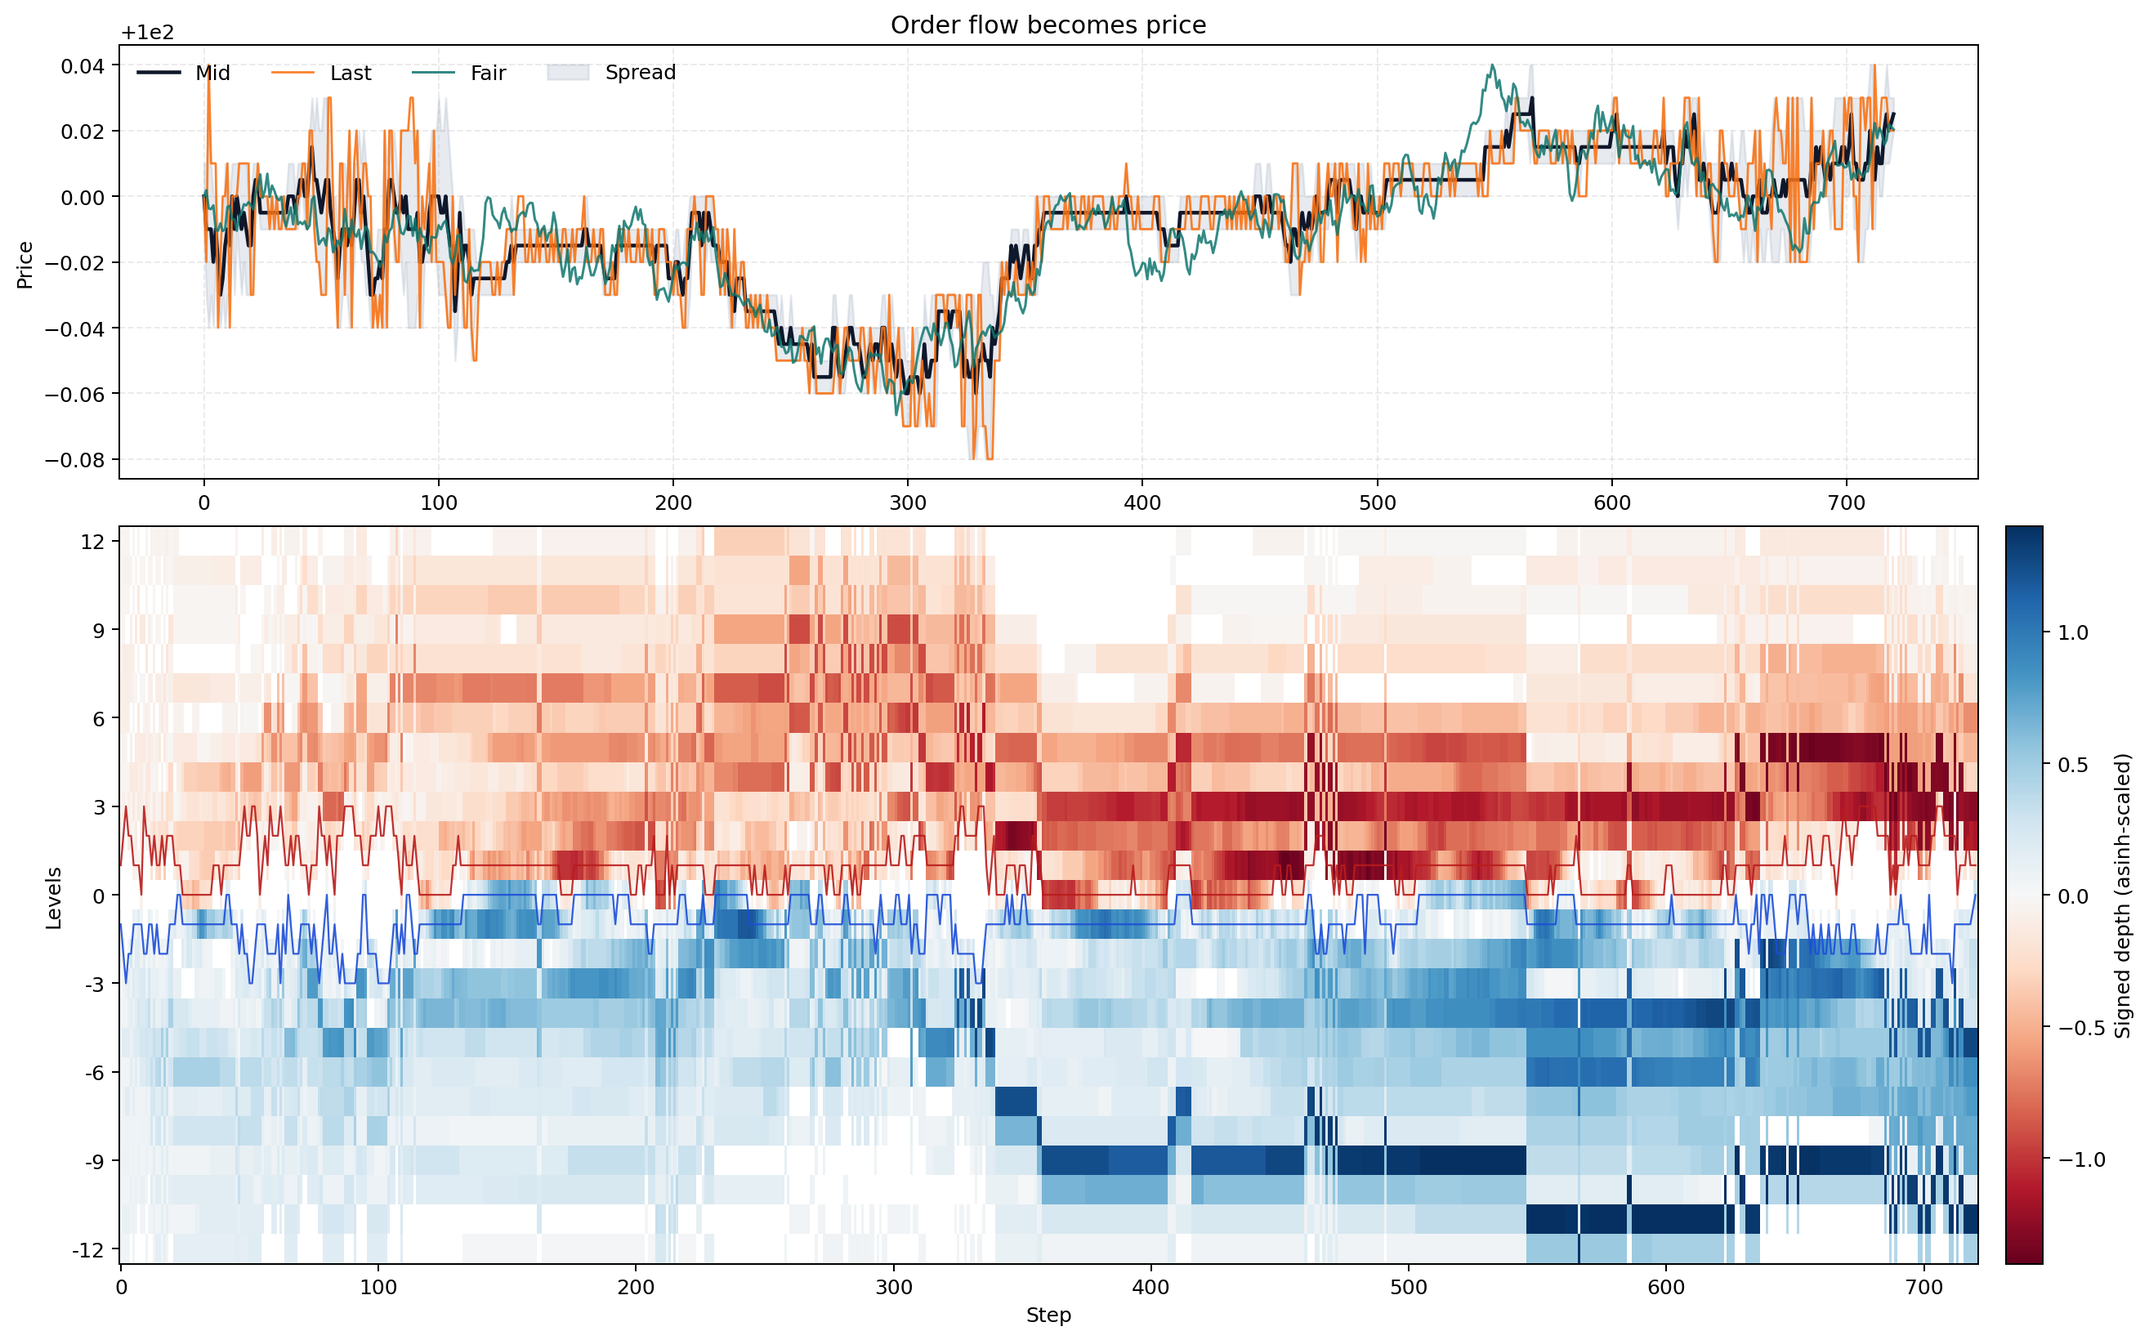
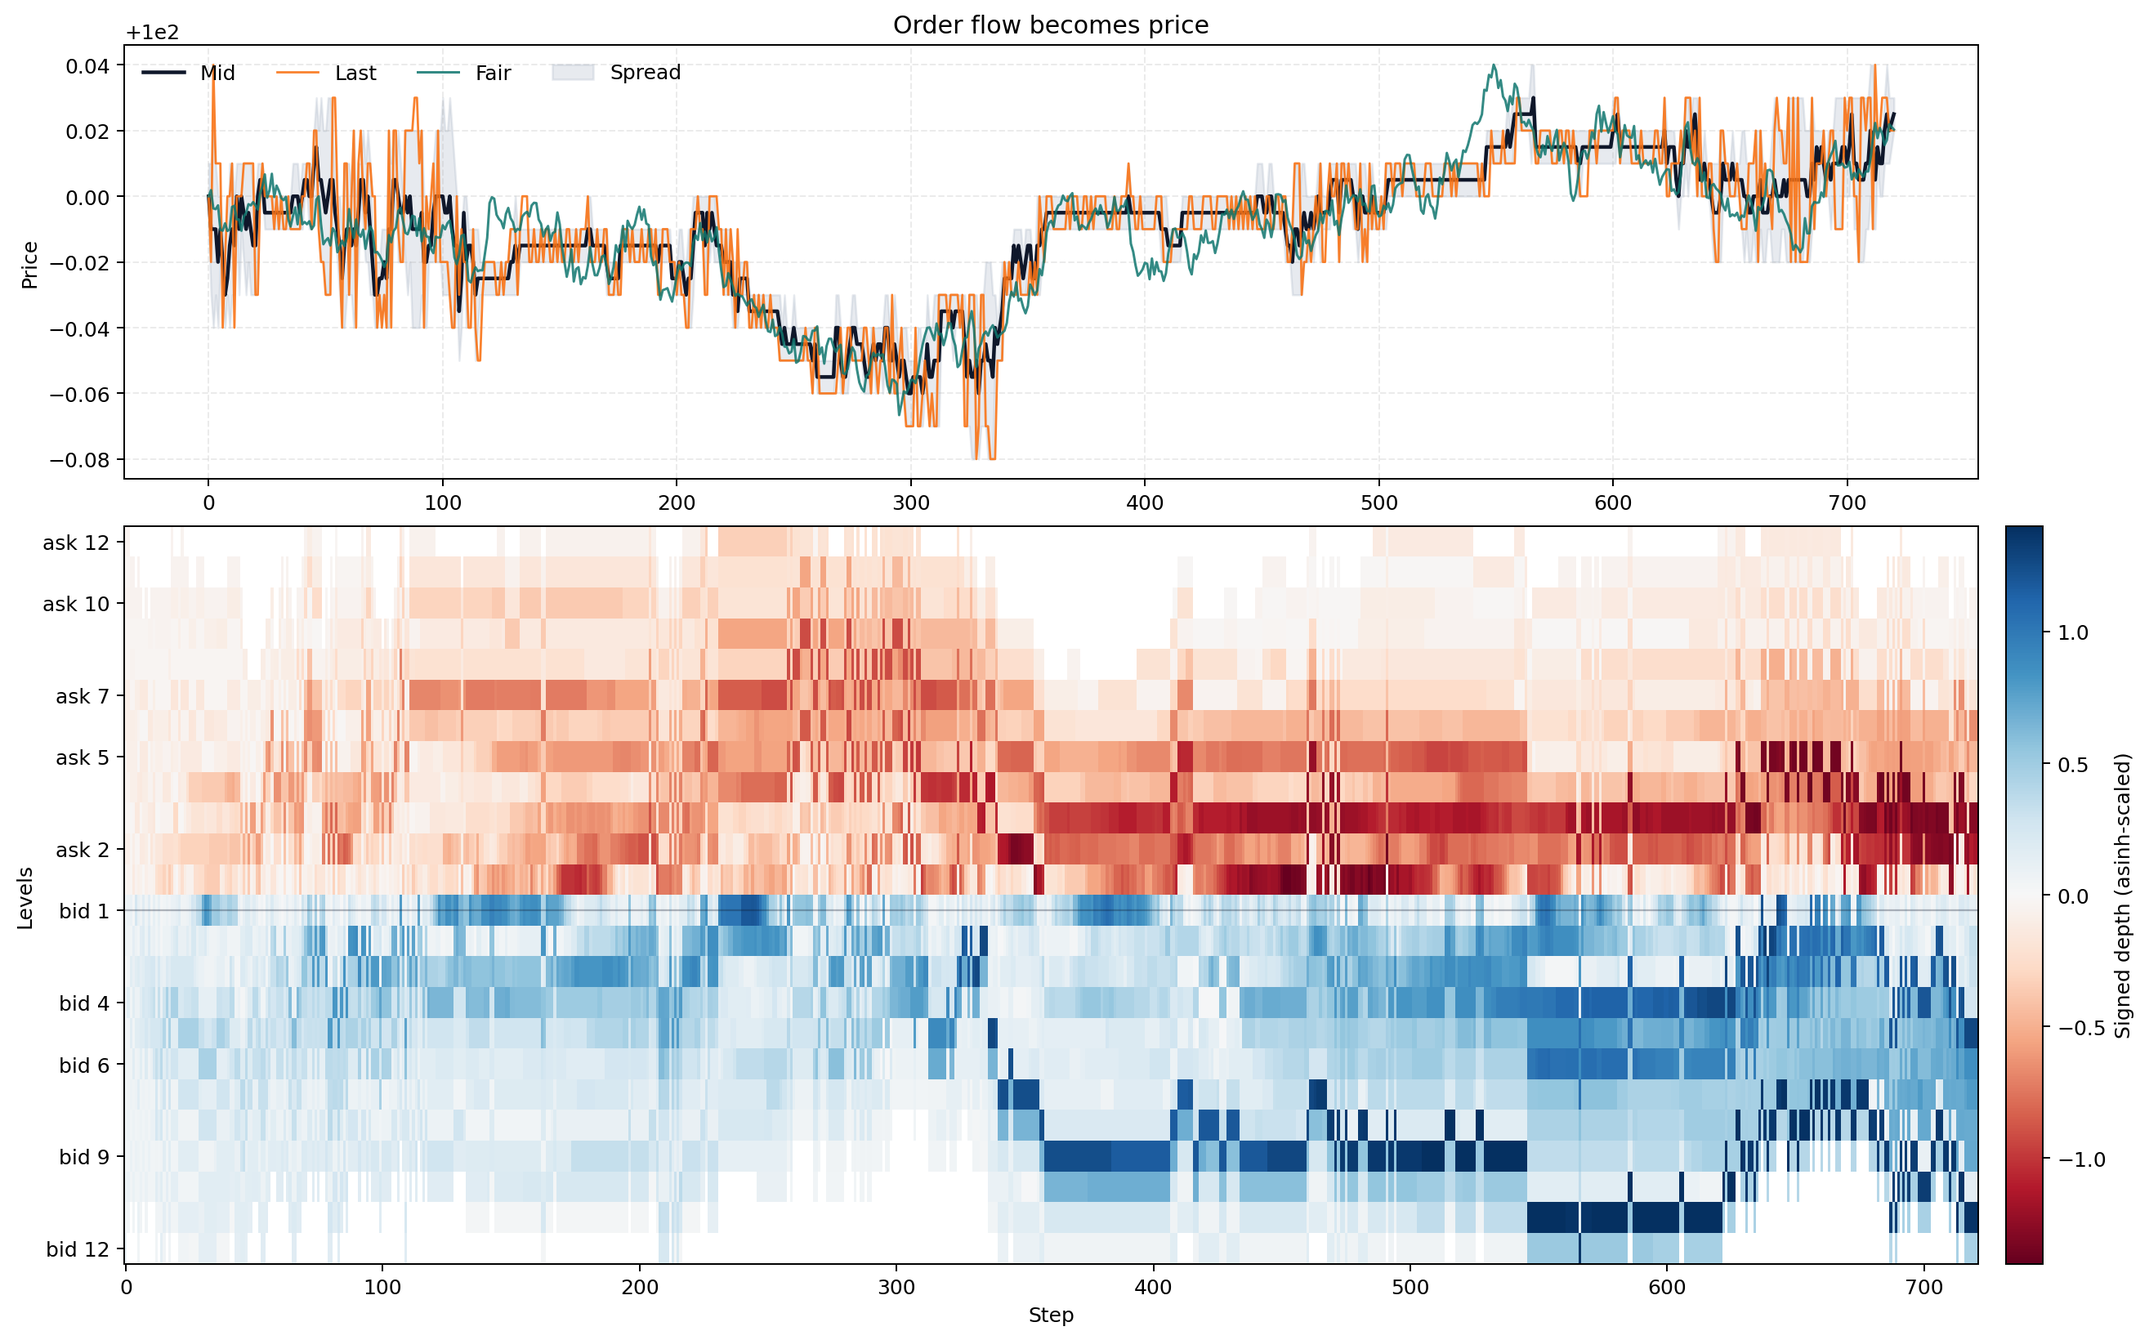
Make heatmap rows stable level ranks

diff --git a/orderwave/visualization.py b/orderwave/visualization.py
@@ -72,8 +72,6 @@ class HeatmapPayload:
     signed_depth: np.ndarray
     x_edges: np.ndarray
     y_edges: np.ndarray
-    best_bid_trace: np.ndarray
-    best_ask_trace: np.ndarray
     ylabel: str
     yticks: np.ndarray
     yticklabels: list[str]
@@ -146,7 +144,7 @@ def plot_heatmap(
         max_steps=max_steps,
         price_window_ticks=price_window_ticks,
     )
-    axis.set_title(title or ("Fixed-level heatmap" if anchor == "price" else "Mid-anchored heatmap"))
+    axis.set_title(title or "Level-ranked heatmap")
     return figure
 
 
@@ -237,10 +235,11 @@ def _draw_heatmap(
         vmax=vmax,
         shading="flat",
     )
-    axis.plot(data.steps, data.best_bid_trace, color="#1d4ed8", linewidth=0.9, alpha=0.90)
-    axis.plot(data.steps, data.best_ask_trace, color="#b91c1c", linewidth=0.9, alpha=0.90)
     axis.set_ylabel(data.ylabel)
     axis.grid(False)
+    midpoint = data.signed_depth.shape[0] / 2.0
+    axis.axhline(midpoint, color="#0f172a", linewidth=0.9, alpha=0.30)
+    axis.invert_yaxis()
 
     if data.yticks.size > 0:
         axis.set_yticks(data.yticks)
@@ -259,9 +258,6 @@ def _prepare_heatmap(
     price_window_ticks: int | None,
 ) -> HeatmapPayload:
     steps = store.steps_array()
-    centers = store.center_ticks_array()
-    best_bid = store.best_bid_ticks_array()
-    best_ask = store.best_ask_ticks_array()
     signed_depth = store.signed_depth_matrix()
 
     if signed_depth.shape[1] == 0:
@@ -270,91 +266,25 @@ def _prepare_heatmap(
     if max_steps > 0 and signed_depth.shape[1] > max_steps:
         groups = _downsample_groups(signed_depth.shape[1], max_steps)
         reduced_steps: np.ndarray = np.empty(len(groups), dtype=float)
-        reduced_centers: np.ndarray = np.empty(len(groups), dtype=float)
-        reduced_best_bid: np.ndarray = np.empty(len(groups), dtype=float)
-        reduced_best_ask: np.ndarray = np.empty(len(groups), dtype=float)
         reduced_matrix: np.ndarray = np.empty((signed_depth.shape[0], len(groups)), dtype=np.float32)
         for column_index, group in enumerate(groups):
             reduced_steps[column_index] = float(steps[group[-1]])
-            reduced_centers[column_index] = float(np.median(centers[group]))
-            reduced_best_bid[column_index] = float(np.median(best_bid[group]))
-            reduced_best_ask[column_index] = float(np.median(best_ask[group]))
             reduced_matrix[:, column_index] = _aggregate_signed_block(signed_depth[:, group])
         steps = reduced_steps.astype(float, copy=False)
-        centers = reduced_centers.astype(float, copy=False)
-        best_bid = reduced_best_bid.astype(float, copy=False)
-        best_ask = reduced_best_ask.astype(float, copy=False)
         signed_depth = reduced_matrix
     else:
         steps = steps.astype(float, copy=False)
-        centers = centers.astype(float, copy=False)
-        best_bid = best_bid.astype(float, copy=False)
-        best_ask = best_ask.astype(float, copy=False)
 
     max_window = store.depth_window_ticks
-    window = max_window if price_window_ticks is None else max(1, min(int(price_window_ticks), max_window))
-    offset_center = max_window
-    row_slice = slice(offset_center - window, offset_center + window + 1)
-    relative_matrix = signed_depth[row_slice]
-    relative_offsets: np.ndarray = np.arange(-window, window + 1, dtype=float)
-
-    if anchor == "mid":
-        y_edges = np.arange(-window - 0.5, window + 1.5, 1.0)
-        best_bid_trace = best_bid - centers
-        best_ask_trace = best_ask - centers
-        ytick_positions, ytick_labels = _sparse_tick_labels(relative_offsets, unit="")
-        return HeatmapPayload(
-            steps=steps,
-            signed_depth=relative_matrix,
-            x_edges=_step_edges(steps),
-            y_edges=y_edges,
-            best_bid_trace=best_bid_trace,
-            best_ask_trace=best_ask_trace,
-            ylabel="Levels",
-            yticks=ytick_positions,
-            yticklabels=ytick_labels,
-        )
-
-    if price_window_ticks is None:
-        absolute_ticks: np.ndarray = np.arange(
-            int(np.floor(np.min(centers))) - window,
-            int(np.ceil(np.max(centers))) + window + 1,
-            dtype=int,
-        )
-    else:
-        anchor_center = int(round(np.median(centers)))
-        absolute_ticks = np.arange(anchor_center - window, anchor_center + window + 1, dtype=int)
-    absolute_matrix: np.ndarray = np.full((absolute_ticks.size, steps.size), np.nan, dtype=np.float32)
-    for column_index in range(steps.size):
-        tick_base = int(round(float(centers[column_index]))) - window
-        column = relative_matrix[:, column_index]
-        for row_index, value in enumerate(column):
-            if np.isnan(value):
-                continue
-            absolute_tick = tick_base + row_index
-            target: int = absolute_tick - int(absolute_ticks[0])
-            if 0 <= target < absolute_matrix.shape[0]:
-                absolute_matrix[target, column_index] = value
-
-    anchor_center = int(round(float(np.median(centers))))
-    level_offsets = absolute_ticks.astype(float, copy=False) - float(anchor_center)
-    y_edges = np.concatenate(
-        (
-            [level_offsets[0] - 0.5],
-            level_offsets[:-1] + (np.diff(level_offsets) / 2.0),
-            [level_offsets[-1] + 0.5],
-        )
-    ).astype(float, copy=False)
-    best_bid_trace = best_bid - float(anchor_center)
-    best_ask_trace = best_ask - float(anchor_center)
-    ytick_positions, ytick_labels = _sparse_tick_labels(level_offsets, unit="")
+    levels = max_window if price_window_ticks is None else max(1, min(int(price_window_ticks), max_window))
+    level_matrix = _visible_level_matrix(signed_depth, levels=levels, center_index=max_window)
+    y_edges = np.arange(-0.5, level_matrix.shape[0] + 0.5, 1.0, dtype=float)
+    ytick_positions, ytick_labels = _level_tick_labels(levels)
     return HeatmapPayload(
         steps=steps,
-        signed_depth=absolute_matrix,
+        signed_depth=level_matrix,
         x_edges=_step_edges(steps),
         y_edges=y_edges,
-        best_bid_trace=best_bid_trace,
-        best_ask_trace=best_ask_trace,
         ylabel="Levels",
         yticks=ytick_positions,
         yticklabels=ytick_labels,
@@ -404,16 +334,42 @@ def _scaled_signed_depth(signed_depth: np.ndarray) -> tuple[np.ndarray, float]:
     return transformed, max(vmax, 1e-6)
 
 
-def _sparse_tick_labels(values: np.ndarray, *, unit: str) -> tuple[np.ndarray, list[str]]:
-    if values.size <= 9:
-        return values, [f"{value:.2f}" if unit == "price" else f"{int(value)}" for value in values]
-    positions = np.linspace(0, values.size - 1, num=9, dtype=int)
-    unique_positions = np.unique(positions)
-    labels = []
-    for position in unique_positions:
-        value = values[position]
-        labels.append(f"{value:.2f}" if unit == "price" else f"{int(value)}")
-    return values[unique_positions], labels
+def _visible_level_matrix(signed_depth: np.ndarray, *, levels: int, center_index: int) -> np.ndarray:
+    matrix = np.full((levels * 2, signed_depth.shape[1]), np.nan, dtype=np.float32)
+    for column_index in range(signed_depth.shape[1]):
+        column = signed_depth[:, column_index]
+
+        ask_rank = 0
+        for row_index in range(center_index + 1, column.shape[0]):
+            value = column[row_index]
+            if not np.isfinite(value) or value >= 0.0:
+                continue
+            matrix[(levels - 1) - ask_rank, column_index] = value
+            ask_rank += 1
+            if ask_rank >= levels:
+                break
+
+        bid_rank = 0
+        for row_index in range(center_index - 1, -1, -1):
+            value = column[row_index]
+            if not np.isfinite(value) or value <= 0.0:
+                continue
+            matrix[levels + bid_rank, column_index] = value
+            bid_rank += 1
+            if bid_rank >= levels:
+                break
+    return matrix
+
+
+def _level_tick_labels(levels: int) -> tuple[np.ndarray, list[str]]:
+    positions: np.ndarray = np.arange((levels * 2), dtype=float)
+    labels = [f"ask {rank}" for rank in range(levels, 0, -1)]
+    labels.extend(f"bid {rank}" for rank in range(1, levels + 1))
+    if positions.size <= 10:
+        return positions, labels
+    indices = np.linspace(0, positions.size - 1, num=10, dtype=int)
+    unique_indices = np.unique(indices)
+    return positions[unique_indices], [labels[index] for index in unique_indices]
 
 
 def _configure_matplotlib():

diff --git a/tests/test_visualization.py b/tests/test_visualization.py
@@ -6,6 +6,7 @@ import pytest
 from matplotlib.figure import Figure
 
 from orderwave import Market
+from orderwave.visualization import _prepare_heatmap
 
 matplotlib.use("Agg")
 
@@ -45,10 +46,48 @@ def test_plot_methods_return_figures_in_visual_mode() -> None:
     market.run(steps=80)
 
     overview = market.plot(max_steps=60, price_window_ticks=10)
-    heatmap = market.plot_heatmap(anchor="price", max_steps=60, price_window_ticks=12)
+    heatmap = market.plot_heatmap(anchor="price", max_steps=60, price_window_ticks=5)
     book = market.plot_book(levels=8)
+    axis = heatmap.axes[0]
+    labels = [tick.get_text() for tick in axis.get_yticklabels()]
 
     assert isinstance(overview, Figure)
     assert isinstance(heatmap, Figure)
     assert isinstance(book, Figure)
-    assert heatmap.axes[0].get_ylabel() == "Levels"
+    assert axis.get_ylabel() == "Levels"
+    assert labels == ["ask 5", "ask 4", "ask 3", "ask 2", "ask 1", "bid 1", "bid 2", "bid 3", "bid 4", "bid 5"]
+    assert len(axis.lines) == 1
+
+
+def test_heatmap_rows_are_stable_level_ranks() -> None:
+    market = Market(seed=42, capture="visual")
+    market.run(steps=120)
+    store = market._visual_history
+
+    assert store is not None
+
+    mid_payload = _prepare_heatmap(
+        store=store,
+        tick_size=market.tick_size,
+        anchor="mid",
+        max_steps=60,
+        price_window_ticks=5,
+    )
+    price_payload = _prepare_heatmap(
+        store=store,
+        tick_size=market.tick_size,
+        anchor="price",
+        max_steps=60,
+        price_window_ticks=5,
+    )
+
+    np.testing.assert_allclose(mid_payload.signed_depth, price_payload.signed_depth, equal_nan=True)
+    assert mid_payload.yticklabels == ["ask 5", "ask 4", "ask 3", "ask 2", "ask 1", "bid 1", "bid 2", "bid 3", "bid 4", "bid 5"]
+    assert price_payload.yticklabels == mid_payload.yticklabels
+
+    ask_values = price_payload.signed_depth[:5][np.isfinite(price_payload.signed_depth[:5])]
+    bid_values = price_payload.signed_depth[5:][np.isfinite(price_payload.signed_depth[5:])]
+    assert ask_values.size > 0
+    assert bid_values.size > 0
+    assert np.all(ask_values < 0.0)
+    assert np.all(bid_values > 0.0)

diff --git a/examples/plot_market_heatmap.py b/examples/plot_market_heatmap.py
@@ -18,7 +18,7 @@ def parse_args() -> argparse.Namespace:
         "--anchor",
         choices=("mid", "price"),
         default="mid",
-        help="Heatmap anchor mode.",
+        help="Compatibility flag. Heatmap rows stay fixed by visible level rank in both modes.",
     )
     parser.add_argument(
         "--output",
@@ -49,14 +49,14 @@ def main() -> None:
         figure = market.plot_heatmap(
             anchor="price",
             max_steps=min(args.steps, 1_200),
-            price_window_ticks=16,
-            title=f"orderwave fixed-level heatmap (seed={args.seed})",
+            price_window_ticks=12,
+            title=f"orderwave stable level-ranked heatmap (seed={args.seed})",
         )
     else:
         figure = market.plot(
             max_steps=min(args.steps, 1_200),
             price_window_ticks=12,
-            title=f"orderwave overview ({args.anchor}, seed={args.seed})",
+            title=f"orderwave overview ({args.anchor} compatibility mode, seed={args.seed})",
         )
     figure.set_dpi(args.dpi)
 

diff --git a/scripts/render_doc_images.py b/scripts/render_doc_images.py
@@ -37,8 +37,8 @@ def render_diagnostics(outdir: Path) -> None:
     figure = market.plot_heatmap(
         anchor="price",
         max_steps=900,
-        price_window_ticks=18,
-        title="Fixed-level signed depth heatmap",
+        price_window_ticks=12,
+        title="Stable level-ranked signed depth heatmap",
         figsize=(13.5, 7.5),
     )
     figure.savefig(outdir / "orderwave-built-in-diagnostics.png", dpi=180, bbox_inches="tight")

diff --git a/README.ko.md b/README.ko.md
@@ -35,11 +35,11 @@ book = market.plot_book()
 - `run(steps)`: `SimulationResult(snapshot=..., history=...)` 반환
 - `get()`: 현재 snapshot을 `dict`로 반환
 - `get_history()`: summary history를 `pandas.DataFrame`으로 반환
-- `plot()`: price path와 mid-anchor signed-depth heatmap 렌더. `capture="visual"` 필요
-- `plot_heatmap(anchor="mid" | "price")`: level 좌표계 기반 standalone heatmap 렌더. `capture="visual"` 필요
+- `plot()`: price path와 고정 level-rank signed-depth heatmap 렌더. `capture="visual"` 필요
+- `plot_heatmap(anchor="mid" | "price")`: 고정 level 좌표계 기반 standalone heatmap 렌더. `capture="visual"` 필요
 - `plot_book()`: 현재 order book 렌더
 
-`capture="summary"`는 fast path를 최대한 가볍게 유지합니다. `capture="visual"`은 움직이는 시장 중심 주변의 fixed signed-depth window를 저장해서, heatmap에서 sweep, void, refill 구조가 보이게 합니다. heatmap y축은 실제 가격이 아니라 level 기준입니다.
+`capture="summary"`는 fast path를 최대한 가볍게 유지합니다. `capture="visual"`은 움직이는 시장 중심 주변의 fixed signed-depth window를 저장해서, heatmap에서 sweep, void, refill 구조가 보이게 합니다. heatmap row는 항상 `ask N ... ask 1 | bid 1 ... bid N` 형태의 고정 visible rank라서 가격 움직임 때문에 위아래로 밀리지 않습니다.
 
 ## Snapshot과 History
 

diff --git a/README.md b/README.md
@@ -35,11 +35,11 @@ book = market.plot_book()
 - `run(steps)`: return `SimulationResult(snapshot=..., history=...)`.
 - `get()`: return the current snapshot as a `dict`.
 - `get_history()`: return the summary history as a `pandas.DataFrame`.
-- `plot()`: render the price path with a mid-anchored signed-depth heatmap. Requires `capture="visual"`.
-- `plot_heatmap(anchor="mid" | "price")`: render a standalone heatmap on level coordinates. Requires `capture="visual"`.
+- `plot()`: render the price path with a stable level-ranked signed-depth heatmap. Requires `capture="visual"`.
+- `plot_heatmap(anchor="mid" | "price")`: render a standalone heatmap on stable level coordinates. Requires `capture="visual"`.
 - `plot_book()`: render the current order book.
 
-`capture="summary"` keeps the fast path lean. `capture="visual"` stores a fixed signed-depth window around the moving market center so the heatmap can show sweep, void, and refill structure clearly. Heatmap y-axes stay in level space rather than real prices.
+`capture="summary"` keeps the fast path lean. `capture="visual"` stores a fixed signed-depth window around the moving market center so the heatmap can show sweep, void, and refill structure clearly. Heatmap rows are always fixed visible ranks, laid out as `ask N ... ask 1 | bid 1 ... bid N`, so they do not drift vertically with price.
 
 ## Snapshot and History
 

diff --git a/docs/ko/README.md b/docs/ko/README.md
@@ -25,8 +25,9 @@ plot surface:
 
 Heatmap 의미:
 
-- `anchor="mid"`는 움직이는 시장 중심 기준으로 row를 정렬하므로 sweep/refill 구조를 읽기 좋습니다.
-- `anchor="price"`는 고정 기준 ladder를 유지하지만, y축은 계속 가격이 아니라 level 기준입니다.
+- heatmap row는 항상 `ask N ... ask 1 | bid 1 ... bid N` 순서의 고정 visible rank입니다.
+- y축은 가격으로 바뀌지 않고, 시장 가격이 움직여도 row가 위아래로 드리프트하지 않습니다.
+- `anchor="mid"`와 `anchor="price"`는 API 호환성 때문에 유지하지만, 둘 다 같은 고정 level-rank heatmap을 그립니다.
 - color는 robust asinh scaling이 적용된 signed depth라서 큰 wall 하나가 전체 contrast를 망치지 않습니다.
 
 ## 문서 이미지

diff --git a/docs/en/README.md b/docs/en/README.md
@@ -25,8 +25,9 @@ The plotting surface is:
 
 Heatmap semantics:
 
-- `anchor="mid"` centers rows on the moving market center and is best for reading sweeps and refills.
-- `anchor="price"` keeps a fixed reference ladder, but the y-axis still shows levels rather than prices.
+- Heatmap rows are fixed visible ranks, ordered as `ask N ... ask 1 | bid 1 ... bid N`.
+- The y-axis never switches to price and does not drift vertically when the market moves.
+- `anchor="mid"` and `anchor="price"` are kept for API compatibility, but both render the same stable level-ranked rows.
 - Colors are signed depth with robust asinh scaling, so one large wall does not flatten the rest of the book.
 
 ## Documentation Images
